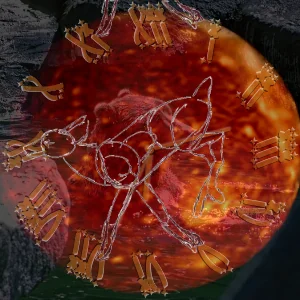
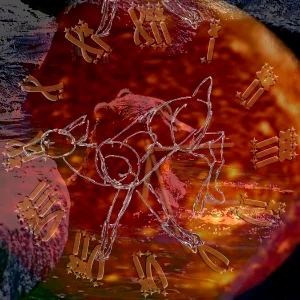
x

diff --git a/src/pages/2026/26-09/26-09-10/Clock.module.css b/src/pages/2026/26-09/26-09-10/Clock.module.css
@@ -11,7 +11,7 @@
   width: 100%;
   height: 100%;
   object-fit: contain;
-  transform: scale(1.2) rotate(180deg);
+  transform: scale(1.4) rotate(180deg);
   transform-origin: center;
   display: block;
   z-index: 0;
@@ -27,6 +27,7 @@
   z-index: 1;
   opacity: 0.3;
   pointer-events: none;
+  filter: saturate(1.5) contrast(1.9) brightness(1.0);
 }
 
 .deer {
